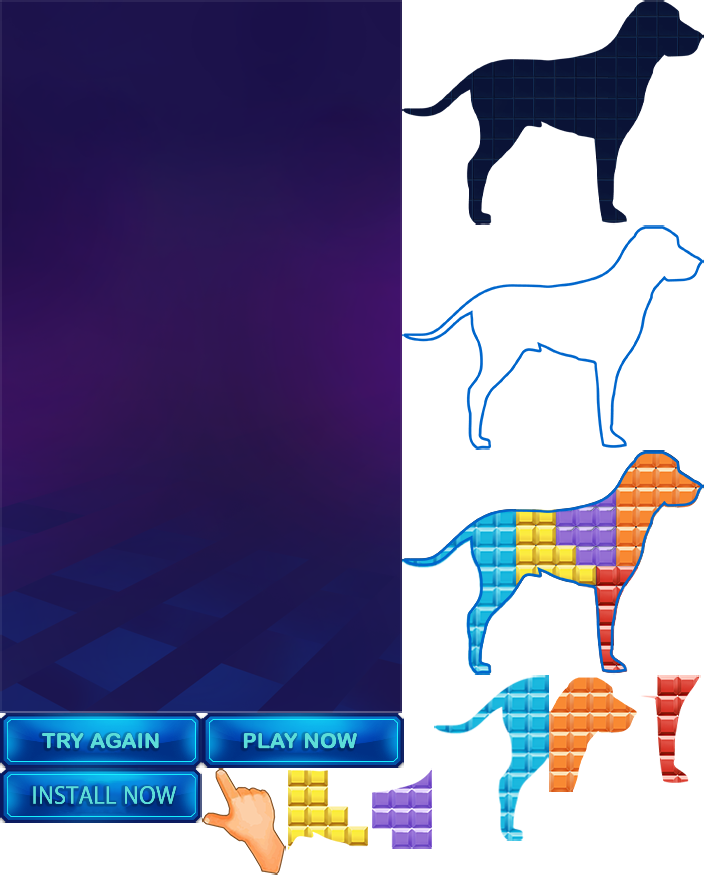
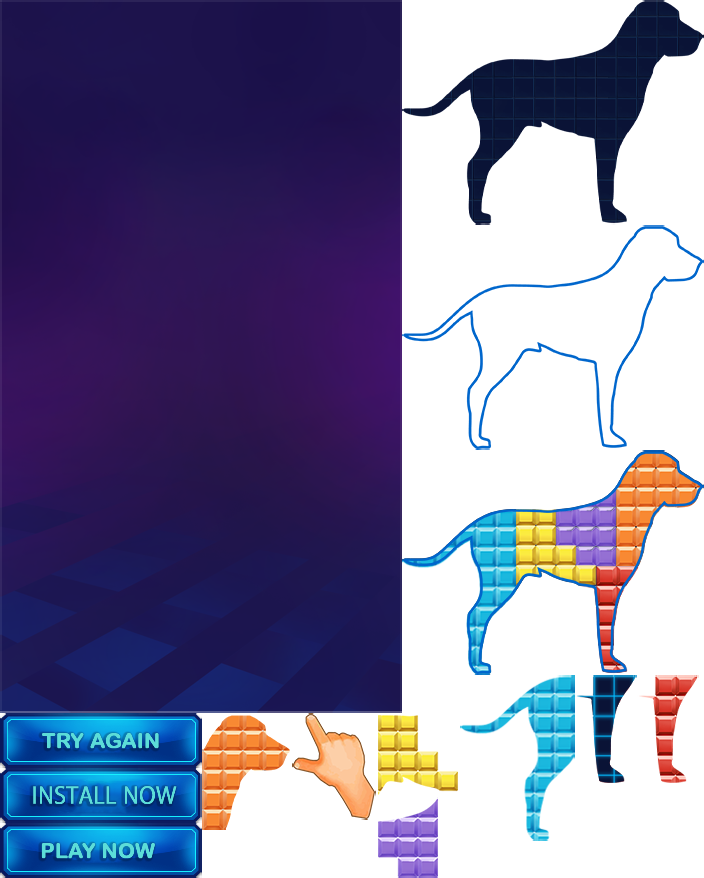
dddd

diff --git a/libs/block.js b/libs/block.js
@@ -10,8 +10,8 @@ var height = window.innerHeight
 width = isMobile ? width : height / 1.7;
 var canvas, stage, update = true;
 var supportsPassive = false, pressMove = false, pressUp = false;
-var containerMain = new createjs.Container();
 var processCr = new createjs.Container();
+var text_new = new createjs.Container();
 var process = {
     x: 0,
     y: 0,
@@ -26,7 +26,7 @@ var process = {
     text_scores: {},
     text_IQ: {}
 };
-var main = {}, dog, border, hand;
+var main = {}, dog, border, hand, hint;
 var listBlock = [], listBlockUse = [], blockUse;
 var win = 0;
 
@@ -57,16 +57,17 @@ function setAnimation() {
             [1, 1, 400, 711, 0, 0, 0],
             [1, 714, 200, 53, 0, 0, 0],
             [1, 769, 200, 53, 0, 0, 0],
-            [203, 714, 200, 53, 0, 0, 0],
-            [203, 769, 82, 105, 0, 0, 0],
-            [287, 769, 82, 82, 0, -6, -2],
-            [371, 769, 62, 79, 0, -1, 0],
+            [1, 824, 200, 53, 0, 0, 0],
+            [203, 714, 88, 115, 0, 0, 0],
+            [293, 714, 82, 105, 0, 0, 0],
+            [377, 714, 82, 82, 0, -6, -2],
+            [377, 798, 62, 79, 0, -1, 0],
             [403, 1, 300, 223, 0, 0, 0],
             [403, 226, 300, 223, 0, 0, 0],
             [403, 451, 300, 223, 0, 0, 0],
-            [435, 676, 113, 164, 0, 0, 0],
-            [550, 676, 88, 115, 0, 0, 0],
-            [640, 676, 60, 108, 0, 0, 0]
+            [461, 676, 113, 164, 0, 0, 0],
+            [576, 676, 60, 108, 0, 0, 0],
+            [638, 676, 60, 108, 0, 0, 0]
         ],
 
         "animations": {
@@ -74,19 +75,19 @@ function setAnimation() {
             "btn_again": { "frames": [1] },
             "install_now": { "frames": [2] },
             "play_now": { "frames": [3] },
-            "hand": { "frames": [4] },
-            "yellow_block": { "frames": [5] },
-            "purple_block": { "frames": [6] },
-            "bg": { "frames": [7] },
-            "border": { "frames": [8] },
-            "full": { "frames": [9] },
-            "blue_block": { "frames": [10] },
-            "orange_block": { "frames": [11] },
-            "red_block": { "frames": [12] }
+            "orange_block": { "frames": [4] },
+            "hand": { "frames": [5] },
+            "yellow_block": { "frames": [6] },
+            "purple_block": { "frames": [7] },
+            "bg": { "frames": [8] },
+            "border": { "frames": [9] },
+            "full": { "frames": [10] },
+            "blue_block": { "frames": [11] },
+            "hint_red_block": { "frames": [12] },
+            "red_block": { "frames": [13] }
         },
     });
     setBackground();
-    stage.addChild(containerMain);
 }
 function setStage() {
     canvas = document.getElementById("myCanvas");
@@ -121,6 +122,24 @@ function setBackground() {
     border.scale = main.scale;
     border.x = main.x;
     border.y = main.y;
+
+
+
+    var text1 = new createjs.Text('Drag and Drop', "30px Impact", "#ffffff");
+
+    text1.scale = (stage.canvas.height / 27) / text1.getMeasuredHeight()
+    text1.scaleX = text1.scale * 1.1
+    text1.x = (stage.canvas.width - text1.getMeasuredWidth() * text1.scale) / 2
+    text1.y = dog.y + (dog.getBounds().height * dog.scale / 2.3 - text1.getMeasuredHeight() * text1.scale / 2)
+
+
+    text_block = new createjs.Text('Blocks', "30px Impact", "#ffffff");
+
+    text_block.scale = (stage.canvas.height / 27) / text1.getMeasuredHeight()
+    text_block.scaleX = text1.scale * 1.1
+    text_block.x = (stage.canvas.width - text_block.getMeasuredWidth() * text_block.scale) / 2
+    text_block.y = text1.y + text_block.getMeasuredHeight() * text_block.scale * 1.2
+    text_new.addChild(text1, text_block)
 
     stage.addChild(dog, border);
     temp()
@@ -249,7 +268,6 @@ function renderBlock() {
     orange_block.y = red_block.y + 1.1 * red_block.getBounds().height * red_block.scale
 
 
-    stage.addChild(orange_block, red_block, purple_block, blue_block, yellow_block)
 
     listBlockUse = [{ x: orange_block.x, y: orange_block.y, block: orange_block },
     { x: red_block.x, y: red_block.y, block: red_block },
@@ -266,8 +284,15 @@ function renderBlock() {
     hand.scale = main.scale / 1.3
     hand.x = red_block.x + red_block.getBounds().width * red_block.scale / 3
     hand.y = red_block.y + red_block.getBounds().height * red_block.scale / 2.2
-    // hand.y = stage.canvas.height
-    stage.addChild(hand)
+
+
+
+    hint = new createjs.Sprite(spriteSheet, "hint_red_block");
+    hint.scale = main.scale
+    hint.x = listBlock[1].x
+    hint.y = listBlock[1].y
+
+    stage.addChild(hint, text_new, orange_block, red_block, purple_block, blue_block, yellow_block, hand)
     createjs.Tween.get(hand, { loop: true })
         .to({
             x: listBlock[1].x + red_block.getBounds().width * red_block.scale / 6,
@@ -279,6 +304,13 @@ function renderBlock() {
             y: red_block.y + red_block.getBounds().height * red_block.scale / 2.2
         }, 700, createjs.Ease.linear)
         .wait(100)
+    createjs.Tween.get(hint, { loop: true })
+        .to({
+            alpha: 0.1
+        }, 300, createjs.Ease.linear)
+        .to({
+            alpha: 1
+        }, 300, createjs.Ease.linear)
 }
 
 function removeHand() {
@@ -325,6 +357,8 @@ function detectMobile() {
     return false;
 }
 function onMouseDown(block) {
+    text_new.removeAllChildren()
+    stage.removeChild(text_new)
     pressMove = true;
     blockUse = block
 }
